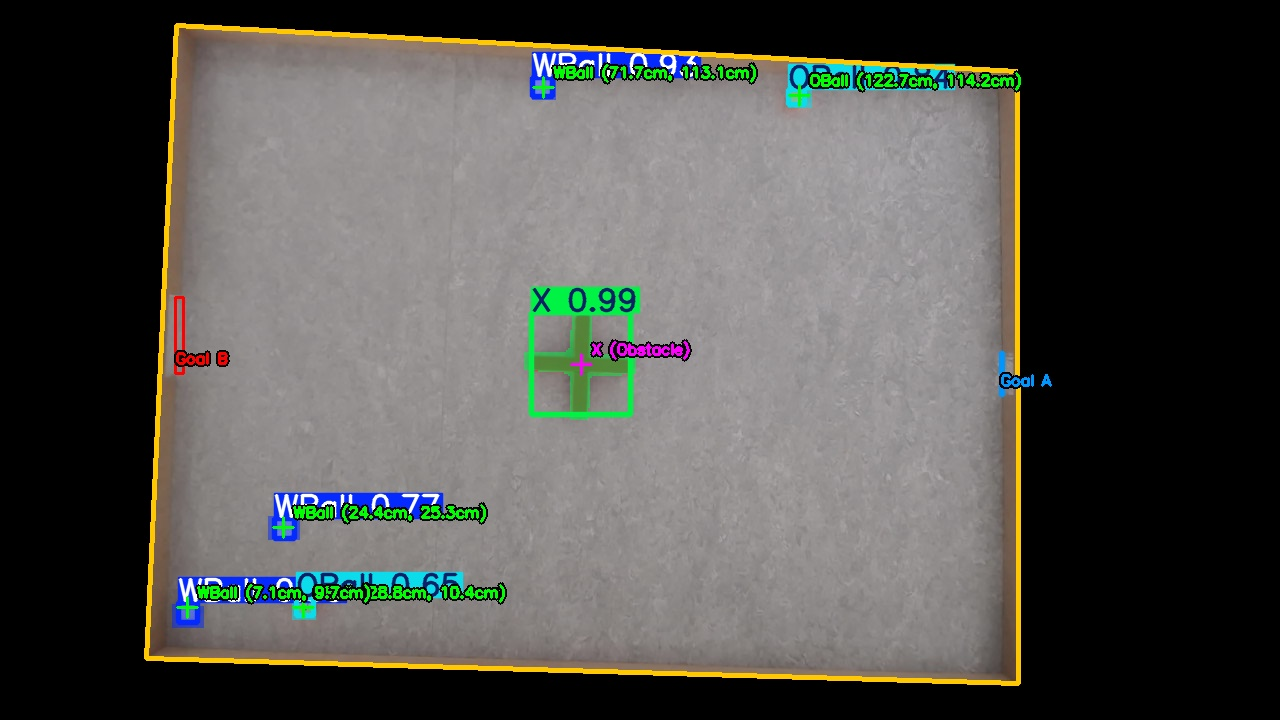
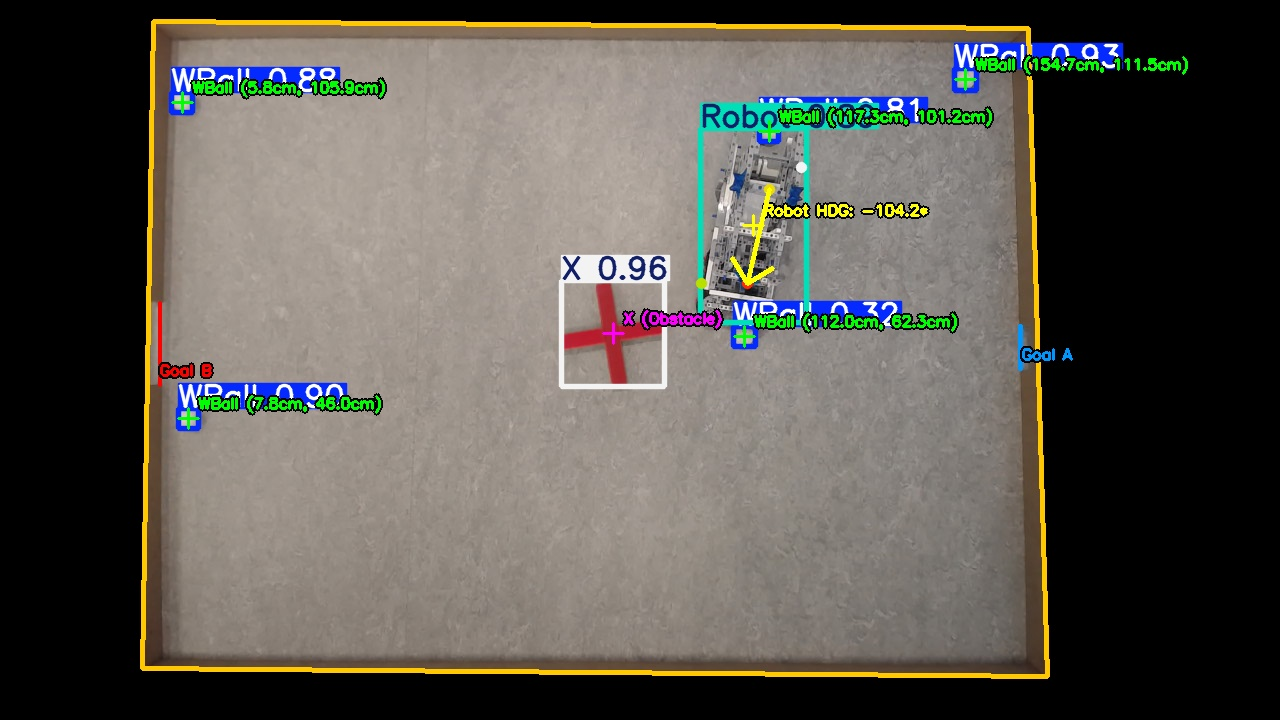
Now taking heading

diff --git a/image_recon/scripts/YOLO_controller.py b/image_recon/scripts/YOLO_controller.py
@@ -1,10 +1,12 @@
+import math
+
 import cv2
 import numpy as np
 import json
 import os
 from ultralytics import YOLO
 
-MODEL_PATH = "runs/segment/train5/weights/best.pt"
+MODEL_PATH = "runs/pose/train2/weights/best.pt"
 CAMERA_INDEX = 0
 
 ARENA_W_CM = 167.0
@@ -170,30 +172,59 @@ def get_yolo_detections(results, model, M):
             cls = int(results.boxes[i].cls[0].item())
             label = model.names[cls]
             
-            if results.masks is not None and len(results.masks.xy) > i:
-                mask = results.masks.xy[i]
-                cx = int(np.mean(mask[:, 0]))
-                cy = int(np.mean(mask[:, 1]))
-            else:
-                x1, y1, x2, y2 = results.boxes[i].xyxy[0].tolist()
-                cx = int((x1 + x2) / 2)
-                cy = int((y1 + y2) / 2)
-
+            # Get Box Center
+            x1, y1, x2, y2 = results.boxes[i].xyxy[0].tolist()
+            cx = int((x1 + x2) / 2)
+            cy = int((y1 + y2) / 2)
+            
+            # Convert center to arena coords
             ax, ay = to_arena_coords(cx, cy, M)
             
             # Keep only items inside the arena bounds
             if ax < 0 or ax > ARENA_W_CM or ay < 0 or ay > ARENA_H_CM:
                 continue
-            
-            x1, y1, x2, y2 = results.boxes[i].xyxy[0].tolist()
+                
             tl = to_arena_coords(x1, y1, M)
             tr = to_arena_coords(x2, y1, M)
             br = to_arena_coords(x2, y2, M)
             bl = to_arena_coords(x1, y2, M)
+
+            # --- POSE EXTRACTION ---
+            keypoints_arena = []
+            heading = None
             
+            if results.keypoints is not None and len(results.keypoints.xy) > i:
+                kpts = results.keypoints.xy[i].cpu().numpy()
+                for kx, ky in kpts:
+                    # Check if keypoint is visible/valid (not 0,0)
+                    if kx > 0 and ky > 0:
+                        k_ax, k_ay = to_arena_coords(kx, ky, M)
+                        keypoints_arena.append({"x": k_ax, "y": k_ay, "px": int(kx), "py": int(ky)})
+
+                # Calculate Heading (Adjust indices to match your dataset's front/back keypoints)
+                if "robot" in label.lower() and len(keypoints_arena) >= 2:
+                    FRONT_KP_INDEX = 0  # <--- Change to your front keypoint index
+                    BACK_KP_INDEX = 1   # <--- Change to your back keypoint index
+                    
+                    try:
+                        front_kp = keypoints_arena[FRONT_KP_INDEX]
+                        back_kp = keypoints_arena[BACK_KP_INDEX]
+                        
+                        # Calculate angle using atan2
+                        dy = front_kp["y"] - back_kp["y"]
+                        dx = front_kp["x"] - back_kp["x"]
+                        
+                        # Get angle in degrees (0 is straight right, 90 is straight up, etc.)
+                        angle_deg = math.degrees(math.atan2(dy, dx))
+                        heading = round(angle_deg, 1)
+                    except IndexError:
+                        pass # Not enough keypoints detected for this frame
+
             detections.append({
                 "label": label, "cx": cx, "cy": cy,
-                "ax": ax, "ay": ay, "corners": [tl, tr, br, bl] 
+                "ax": ax, "ay": ay, "corners": [tl, tr, br, bl],
+                "keypoints": keypoints_arena,
+                "heading": heading
             })
     return detections
 
@@ -212,9 +243,21 @@ def draw_arena_overlay(vis_frame, M_inv):
 
 def draw_positions(vis_frame, detections):
     for d in detections:
-        if "ball" in d['label'].lower():
+        label_lower = d['label'].lower()
+        if "ball" in label_lower:
             cv2.drawMarker(vis_frame, (d["cx"], d["cy"]), (0, 255, 0), cv2.MARKER_CROSS, 20, 2)
             draw_text_with_outline(vis_frame, f"{d['label']} ({d['ax']}cm, {d['ay']}cm)", (d["cx"] + 10, d["cy"] - 10), 0.5, (0, 255, 0), 2)
+        elif "robot" in label_lower:
+            cv2.drawMarker(vis_frame, (d["cx"], d["cy"]), (0, 255, 255), cv2.MARKER_CROSS, 20, 2)
+            heading_text = f"HDG: {d['heading']}*" if d['heading'] is not None else ""
+            draw_text_with_outline(vis_frame, f"{d['label']} {heading_text}", (d["cx"] + 10, d["cy"] - 10), 0.5, (0, 255, 255), 2)
+            
+            # Draw Heading Arrow based on Keypoints
+            if d['heading'] is not None and len(d['keypoints']) >= 2:
+                # Using the pixel coords for drawing
+                front_px = (d['keypoints'][0]['px'], d['keypoints'][0]['py']) # Adjust index if needed
+                back_px = (d['keypoints'][1]['px'], d['keypoints'][1]['py'])  # Adjust index if needed
+                cv2.arrowedLine(vis_frame, back_px, front_px, (0, 255, 255), 3, tipLength=0.3)
         else:
             cv2.drawMarker(vis_frame, (d["cx"], d["cy"]), (255, 0, 255), cv2.MARKER_CROSS, 20, 2)
             draw_text_with_outline(vis_frame, f"{d['label']} (Obstacle)", (d["cx"] + 10, d["cy"] - 10), 0.5, (255, 0, 255), 2)
@@ -246,7 +289,7 @@ def scan(frame, model, M, M_inv):
     
     masked_frame = cv2.bitwise_and(frame, frame, mask=mask)
     
-    # Run YOLO
+    # Run YOLO (Make sure model returns keypoints)
     results = model(masked_frame, verbose=False, conf=0.25)[0]
     detections = get_yolo_detections(results, model, M)
 
@@ -266,23 +309,36 @@ def scan(frame, model, M, M_inv):
             ] if len(corners) == 4 else []
         },
         "goals": {"A": goal_a_cm, "B": goal_b_cm},
+        "robot": {}, 
         "cross": {}, 
         "balls": []
     }
     
     for d in detections:
-        if "ball" not in d["label"].lower():
+        label_lower = d["label"].lower()
+        corners_list = [
+            {"position": "top-left", "x": d["corners"][0][0], "y": d["corners"][0][1]},
+            {"position": "top-right", "x": d["corners"][1][0], "y": d["corners"][1][1]},
+            {"position": "bottom-right", "x": d["corners"][2][0], "y": d["corners"][2][1]},
+            {"position": "bottom-left", "x": d["corners"][3][0], "y": d["corners"][3][1]}
+        ]
+
+        if "ball" in label_lower:
+            robot_data["balls"].append({"label": d["label"], "x": d["ax"], "y": d["ay"]})
+        elif "robot" in label_lower:
+            robot_data["robot"] = {
+                "label": d["label"],
+                "x": d["ax"],
+                "y": d["ay"],
+                "heading": d["heading"],
+                "keypoints": [{"x": kp["x"], "y": kp["y"]} for kp in d["keypoints"]],
+                "corners": corners_list
+            }
+        else: # Obstacles / Cross
             robot_data["cross"] = {
                 "label": d["label"],
-                "corners": [
-                    {"position": "top-left", "x": d["corners"][0][0], "y": d["corners"][0][1]},
-                    {"position": "top-right", "x": d["corners"][1][0], "y": d["corners"][1][1]},
-                    {"position": "bottom-right", "x": d["corners"][2][0], "y": d["corners"][2][1]},
-                    {"position": "bottom-left", "x": d["corners"][3][0], "y": d["corners"][3][1]}
-                ]
+                "corners": corners_list
             }
-        else:
-            robot_data["balls"].append({"label": d["label"], "x": d["ax"], "y": d["ay"]})
     
     json_output = json.dumps(robot_data, indent=2)
 
@@ -299,7 +355,6 @@ def scan(frame, model, M, M_inv):
     vis_frame = draw_positions(vis_frame, detections)
     
     return robot_data, vis_frame
-
 
 def main():
     model = YOLO(MODEL_PATH)
